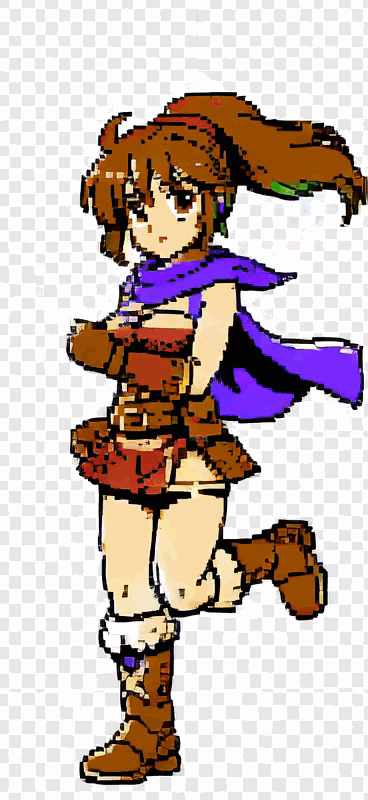
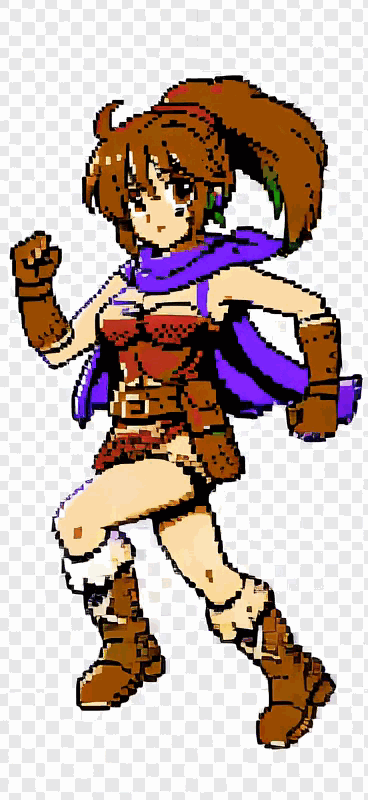
アニメーションプレイヤー: 冒頭2コマを削除して13枚構成に

diff --git a/docs/tools/animplay/index.html b/docs/tools/animplay/index.html
@@ -69,7 +69,7 @@
       <button class="btn sm" id="share">🔗 URLに保存</button>
     </div>
     <div id="status"></div>
-    <div class="note">元動画: grok 生成の少女狩人。先頭32コマから偶数コマだけ間引いた 15 コマ (実質12fps相当, 368x800)。<br>
+    <div class="note">元動画: grok 生成の少女狩人。先頭32コマから偶数コマだけ間引き、冒頭2コマを除いた 13 コマ (実質12fps相当, 368x800)。<br>
       素材 PNG は <a href="frames/f007.png">frames/fNNN.png</a></div>
   </div>
 
@@ -86,7 +86,7 @@
 </main>
 <script>
 'use strict';
-const N = 15;
+const N = 13;
 const $ = id => document.getElementById(id);
 const imgs = [];
 let sel = new Array(N).fill(true);

diff --git a/README.ja.md b/README.ja.md
@@ -14,7 +14,7 @@
 
 **🖌 [CHR-ROM エディタ](https://goroman.github.io/calude-famicom-game/tools/chredit/)** — ROM のタイルグラフィックをブラウザでドット編集。1〜4キー+スペースのキーボード操作、UNDO、アニメーションチェック付き。改造 .nes を書き出してそのまま遊べます
 
-**🎞 [アニメーションプレイヤー](https://goroman.github.io/calude-famicom-game/tools/animplay/)** — 動画から切り出したフレーム (少女狩人 15コマ) を、コマ選択+フレームレート指定でループ再生。URLが保存データ
+**🎞 [アニメーションプレイヤー](https://goroman.github.io/calude-famicom-game/tools/animplay/)** — 動画から切り出したフレーム (少女狩人 13コマ) を、コマ選択+フレームレート指定でループ再生。URLが保存データ
 
 **👁 [目パチエディタ](https://goroman.github.io/calude-famicom-game/tools/blinkedit/)** — タイトル画面の目パチ (閉じ目/半目/白目) をドット単位で編集、実機同様のプレビュー付き。JSON を `tools/apply_blink.py` でアセットに反映
 

diff --git a/README.md b/README.md
@@ -14,7 +14,7 @@ A **side-scrolling action game for the NES (Famicom)** starring a young **huntre
 
 **🖌 [CHR-ROM Editor](https://goroman.github.io/calude-famicom-game/tools/chredit/)** — pixel-edit the ROM's tile graphics in the browser. Keyboard-driven (1–4 keys + space), with undo, save/load, and an animation checker. Export a modified .nes and play it
 
-**🎞 [Animation Player](https://goroman.github.io/calude-famicom-game/tools/animplay/)** — loop-play frames extracted from video (15 frames of the huntress) with frame selection and adjustable FPS; the URL is the save data
+**🎞 [Animation Player](https://goroman.github.io/calude-famicom-game/tools/animplay/)** — loop-play frames extracted from video (13 frames of the huntress) with frame selection and adjustable FPS; the URL is the save data
 
 **👁 [Blink Editor](https://goroman.github.io/calude-famicom-game/tools/blinkedit/)** — pixel-edit the title screen's eye-blink frames with a hardware-accurate preview. Apply the JSON to the assets with `tools/apply_blink.py`
 
